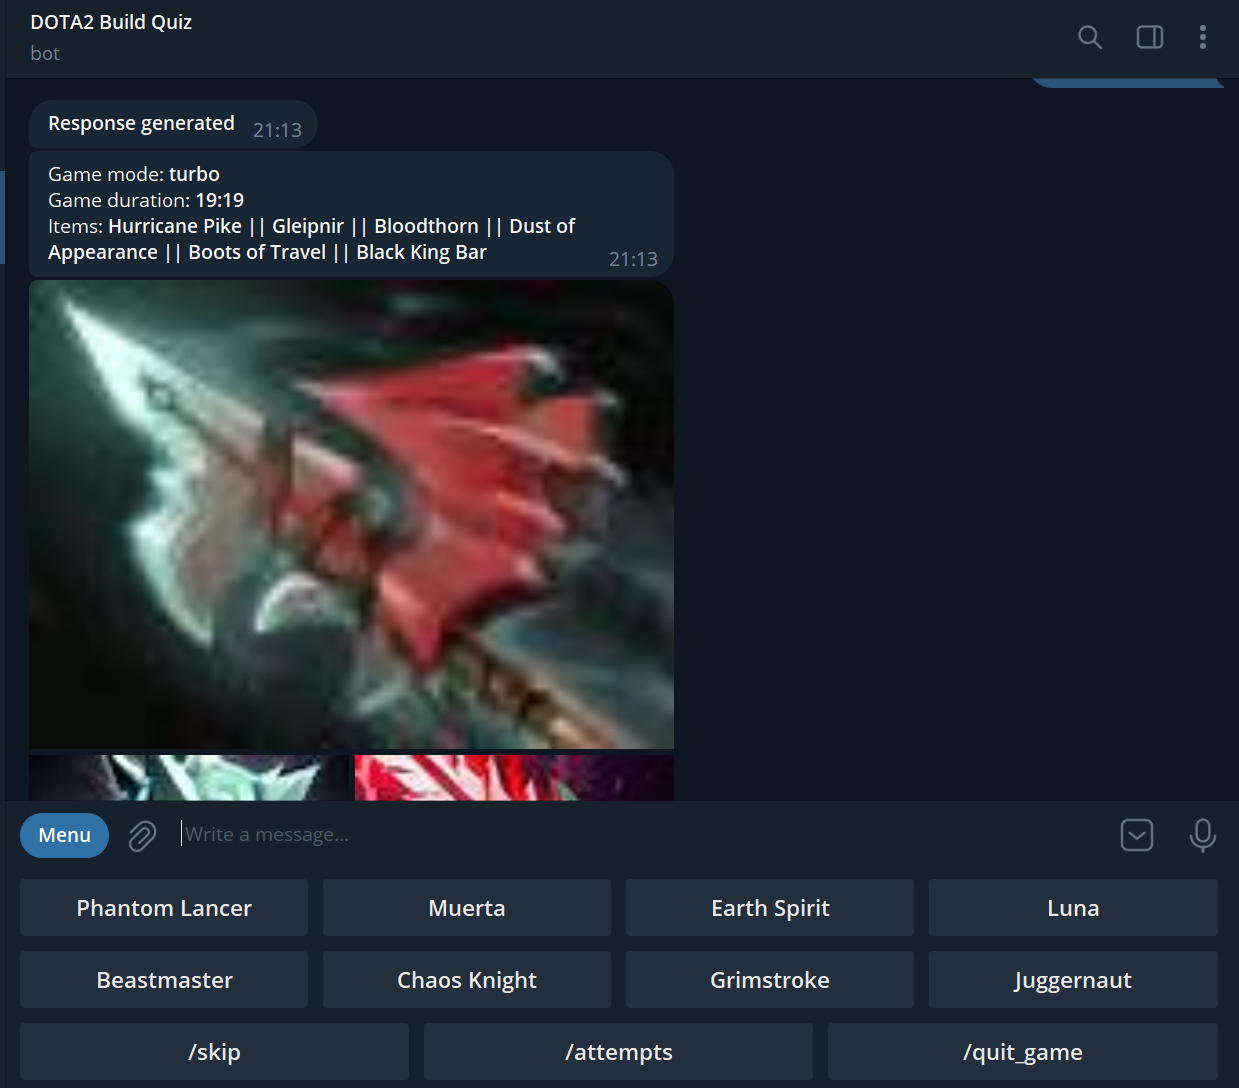
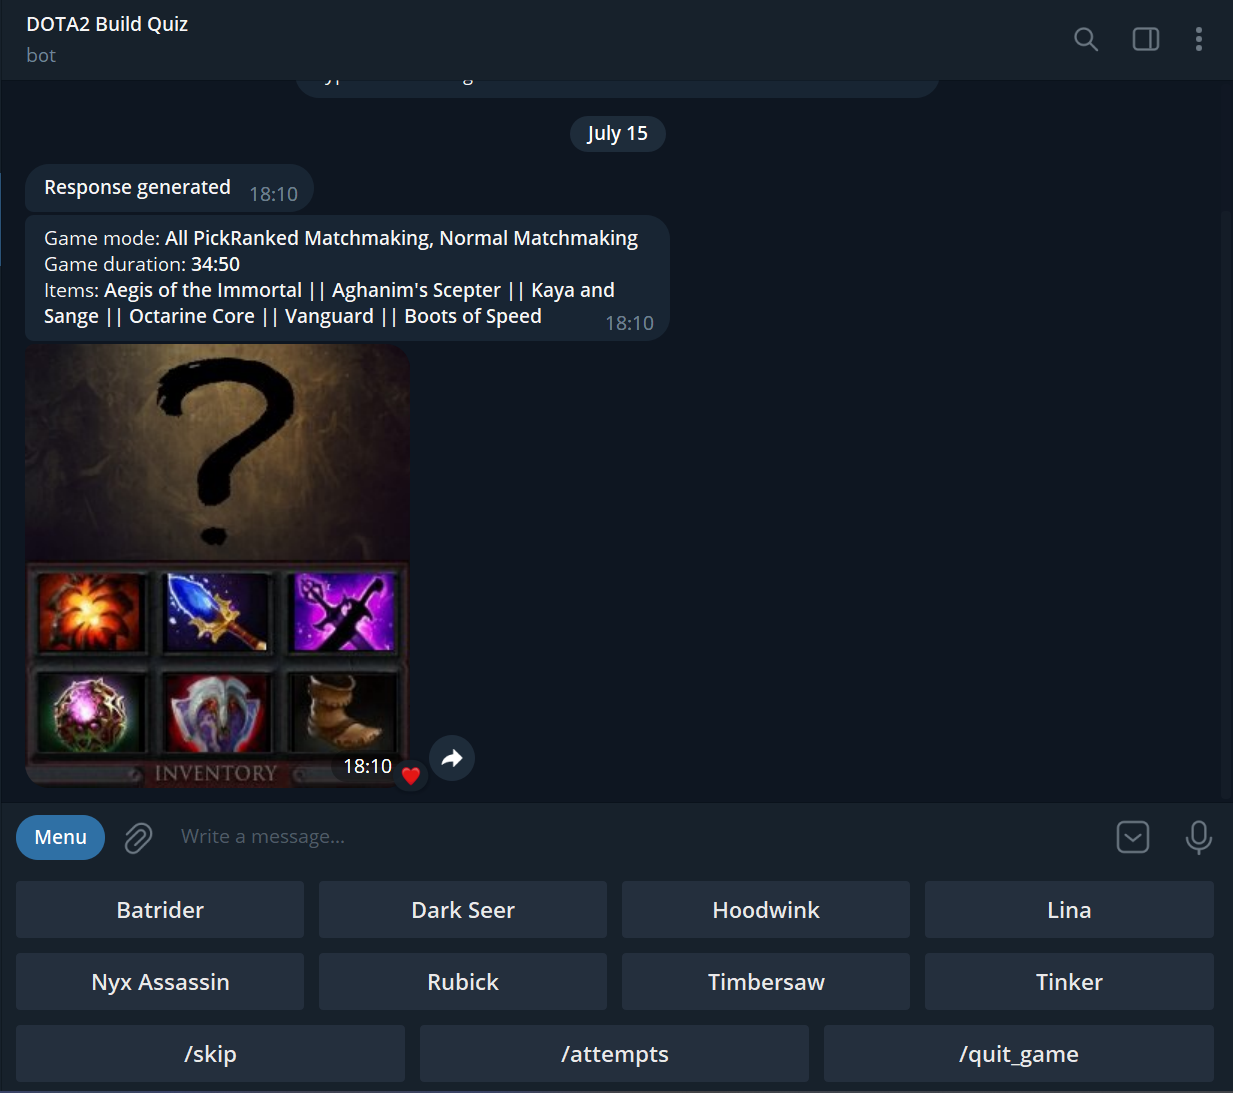
Added fancy image for questions(See screenshots). Added local saves for data from dotabuff

diff --git a/main.py b/main.py
@@ -1,9 +1,15 @@
 import random
+
+import aiogram.types
+import numpy
 from aiogram import types, Bot, Dispatcher, executor
 from api_token import API_TOKEN
 import logging
 import json
 from dotabuffpy import DotaBuffTools
+from jsontools import JsonTools
+import cv2 as cv
+import numpy as np
 
 
 logging.basicConfig(format='%(asctime)s - %(name)s - %(levelname)s - %(message)s', level=logging.INFO)
@@ -29,6 +35,7 @@ answer_options_amount = 8
 language = "en"
 single_page_mode = True
 current_hero = ""
+current_items = []
 current_match = ""
 settings_text = f"""
 /language <b>Current: {language}.</b> Change app language
@@ -228,12 +235,6 @@ async def get_setting_value(message: types.Message):
     listening_for_setting = ""
 
 
-def update_json():
-    global herodict, itemdict
-    itemdict = DotaBuffTools.get_dota2_item_data()
-    herodict = DotaBuffTools.get_dota2_hero_data()
-
-
 async def check_attempts(message: types.Message):
     global current_attempt_count, best_score, current_score, game_active
     current_attempt_count -= 1
@@ -267,7 +268,7 @@ async def delete_previous_messages(message):
 
 @single_page
 async def get_build(message: types.Message):
-    global current_hero, current_match, current_attempt_count
+    global current_hero, current_match, current_attempt_count, current_items
     try:
         current_attempt_count = MAX_ATTEMPT_COUNT
         random_hero = get_random_hero_id()
@@ -289,14 +290,16 @@ async def get_build(message: types.Message):
         if not matches_list[id]["itembuild"]:
             await message.answer("Itembuild is empty")
         item_name_list = [itemdict[item]['name'] for item in matches_list[id]["itembuild"]]
-        item_image_list = [types.InputMediaPhoto(itemdict[item]['image'], caption=itemdict[item]["name"])
-                           for item in matches_list[id]["itembuild"]]
+        item_id_list = matches_list[id]["itembuild"]
+        current_items = item_id_list
+        build_image = generate_hero_items_image(item_id_list)
+        cv.imwrite('Image/build_image.jpg', build_image)
         item_name_list = "".join(str(item) + ' || ' for item in item_name_list).removesuffix(' || ')
         await message.answer(f"Game mode: <b>{matches_list[id]['game_mode']['mode']}"
                              f", {matches_list[id]['game_mode']['lobby']}</b>\n"
                              f"Game duration: <b>{matches_list[id]['duration']}</b>\n"
                              f"Items: <b>{item_name_list}</b>", parse_mode='html', reply_markup=keyboard)
-        await message.answer_media_group(item_image_list)
+        await message.answer_photo(types.InputFile('Image/build_image.jpg'))
     except Exception as e:
         global current_score
         await message.answer(f"Sorry, an error has occurred. Error: {e}")
@@ -360,17 +363,81 @@ async def answer_correct_hero(message: types.Message):
     match_url = 'www.dotabuff.com' + current_match
     keyboard.add(types.InlineKeyboardButton(text=f'Match {get_hero_as_http_parameter(current_match)}',
                                             url=match_url))
-    await message.answer_photo(herodict[current_hero]['image'],
+    build_image = generate_hero_items_image(current_items, current_hero)
+    cv.imwrite('Image/build_image.jpg', build_image)
+    await message.answer_photo(types.InputFile('Image/build_image.jpg'),
                                caption=f'The hero was <b>{herodict[current_hero]["name"]}</b>',
                                parse_mode='html', reply_markup=keyboard)
 
 
+def update_json(items_path, heroes_path, ignore_existing):
+    global herodict, itemdict
+    herodict = DotaBuffTools.get_dota2_hero_data()
+    JsonTools.add_dict_to_json(heroes_path, herodict, ignore_existing)
+    itemdict = DotaBuffTools.get_dota2_item_data()
+    JsonTools.add_dict_to_json(items_path, itemdict, ignore_existing)
+
+
+
+def load_json(items_path, heroes_path):
+    global herodict, itemdict
+    itemdict = DotaBuffTools.get_dota2_item_data()
+    herodict = DotaBuffTools.get_dota2_hero_data()
+    JsonTools.add_dict_to_json(items_path, itemdict)
+    JsonTools.add_dict_to_json(heroes_path, herodict)
+
+
+def generate_hero_items_image(items:list, hero='unknown'):
+    if hero == 'unknown':
+        hero_image = cv.imread('Image/unknown.png')
+    else:
+        hero_image = np.uint8(np.asarray(herodict[hero]['image']))
+    grid_rows = 3
+    grid_lines = 2
+    cell_margin_x = 10
+    cell_margin_y = 9
+    cell_size_x = 75
+    cell_size_y = 59
+    grid = cv.imread('Image/grid.png')
+    label = cv.imread('Image/label.png')
+    item_image_list = []
+    if items.__len__() > 0:
+        for item_name in items:
+            item_image = np.uint8(np.asarray(itemdict[item_name]['image']))
+            item_image_list.append(item_image)
+    item_number = 0
+    for l in range(grid_lines):
+        for r in range(grid_rows):
+            if item_number >= item_image_list.__len__():
+                break
+            item_image = item_image_list[item_number]
+            item_image = cv.resize(item_image, (cell_size_x - cell_margin_x + 1, cell_size_y - cell_margin_y + 1))
+            grid[cell_margin_y + cell_margin_y * l +
+                 cell_size_y * l:cell_size_y + cell_size_y * l + cell_margin_y * l + 1,
+                 cell_margin_x + cell_margin_x * r + cell_size_x * r:cell_size_x
+                 + cell_margin_x * r + cell_size_x * r + 1] = item_image
+            item_number += 1
+    hero_image = cv.resize(hero_image, [257, 144])
+    result = np.vstack([grid, label])
+    result = np.vstack([hero_image, result])
+    return result
+
+
 def main():
+    global herodict, itemdict
     try:
-        update_json()
-        executor.start_polling(DISPATCHER, skip_updates=True)
+        if input("To update heroes and items data print /update\n") == "/update":
+            ignore_existing = bool(input("Ignore existing?(Y/N)").lower() == "y")
+            update_json(ITEMS_JSON_PATH, HEROES_JSON_PATH, ignore_existing)
+            logging.log(logging.INFO, "JSON data Updated and loaded")
+        else:
+            itemdict = JsonTools.load_dict_from_json(ITEMS_JSON_PATH)
+            herodict = JsonTools.load_dict_from_json(HEROES_JSON_PATH)
+            logging.log(logging.INFO, "JSON data Loaded")
+            executor.start_polling(DISPATCHER, skip_updates=True)
     except Exception as e:
         logging.log(logging.CRITICAL, f"Error: {e}")
+    input()
 
 
 if __name__ == "__main__":

diff --git a/dotabuffpy.py b/dotabuffpy.py
@@ -1,6 +1,9 @@
 from requests_html import HTMLSession
 from bs4 import BeautifulSoup
 import logging
+import cv2 as cv
+import numpy as np
+import urllib.request
 
 
 class DotaBuffTools:
@@ -22,12 +25,15 @@ class DotaBuffTools:
                     a = td.find('a')
                     if a and 'href' in a.attrs:
                         item_id = a['href']
+                        image_url = dotabuff_url + tr.find('td', class_='cell-icon').img['src']
+                        image = get_image_from_url(image_url).tolist()
                         item_info = {
                             "name": a.text.strip(),
-                            "image": dotabuff_url + tr.find('td', class_='cell-icon').img['src']
+                            "image_url": image_url,
+                            "image": image
                         }
                         item_dict[item_id] = item_info
-        logging.log(logging.INFO, "Item base loaded")
+        logging.log(logging.INFO, "Item base downloaded")
         return item_dict
 
     @staticmethod
@@ -47,13 +53,15 @@ class DotaBuffTools:
                     soup = BeautifulSoup(tooltip_response.html.html, 'html.parser')
                     image_url = dotabuff_url + soup.a.img['src']
                     main_attribute = soup.find(class_="tooltip-header").find(class_="subheader").text.split(" Hero")[0].strip()
+                    image = get_image_from_url(image_url).tolist()
                     hero_info = {
                         "name": a.find(class_="name").text.strip(),
-                        "image": image_url,
+                        "image_url": image_url,
+                        "image": image,
                         "main_attribute": main_attribute
                     }
                     hero_dict[hero_id] = hero_info
-        logging.log(logging.INFO, "Hero base loaded")
+        logging.log(logging.INFO, "Hero base downloaded")
         return hero_dict
 
     @staticmethod
@@ -103,3 +111,11 @@ class DotaBuffTools:
                 matches[match_id] = match_data
 
         return matches
+
+
+def get_image_from_url(image_url):
+    request = urllib.request.Request(image_url, headers={'User-agent': 'DOTA2 Telegram Quiz Bot'})
+    response = urllib.request.urlopen(request)
+    arr = np.asarray(bytearray(response.read()), dtype=np.uint8)
+    image = cv.imdecode(arr, -1)
+    return image

diff --git a/jsontools.py b/jsontools.py
@@ -1,4 +1,14 @@
 import json
+import logging
+import numpy as np
+
+
+class NumpyEncoder(json.JSONEncoder):
+    def default(self, obj):
+        if isinstance(obj, np.ndarray):
+            return obj.tolist()
+        return json.JSONEncoder.default(self, obj)
+
 
 class JsonTools:
     @staticmethod
@@ -11,9 +21,17 @@ class JsonTools:
 
         for key, value in data_dict.items():
             if key in json_data and ignore_existing:
-                print(f"Key '{key}' already exists in the JSON file. Ignoring the addition.")
+                logging.log(logging.INFO ,f"Key '{key}' already exists in the JSON file. Ignoring the addition.")
             else:
                 json_data[key] = value
 
         with open(json_file, 'w') as file:
-            json.dump(json_data, file, indent=4)
+            json.dump(json_data, file, indent=4, cls=NumpyEncoder)
+
+    @staticmethod
+    def load_dict_from_json(file_path):
+        with open(file_path, 'r') as file:
+            data = json.load(file)
+        return data
+
+
